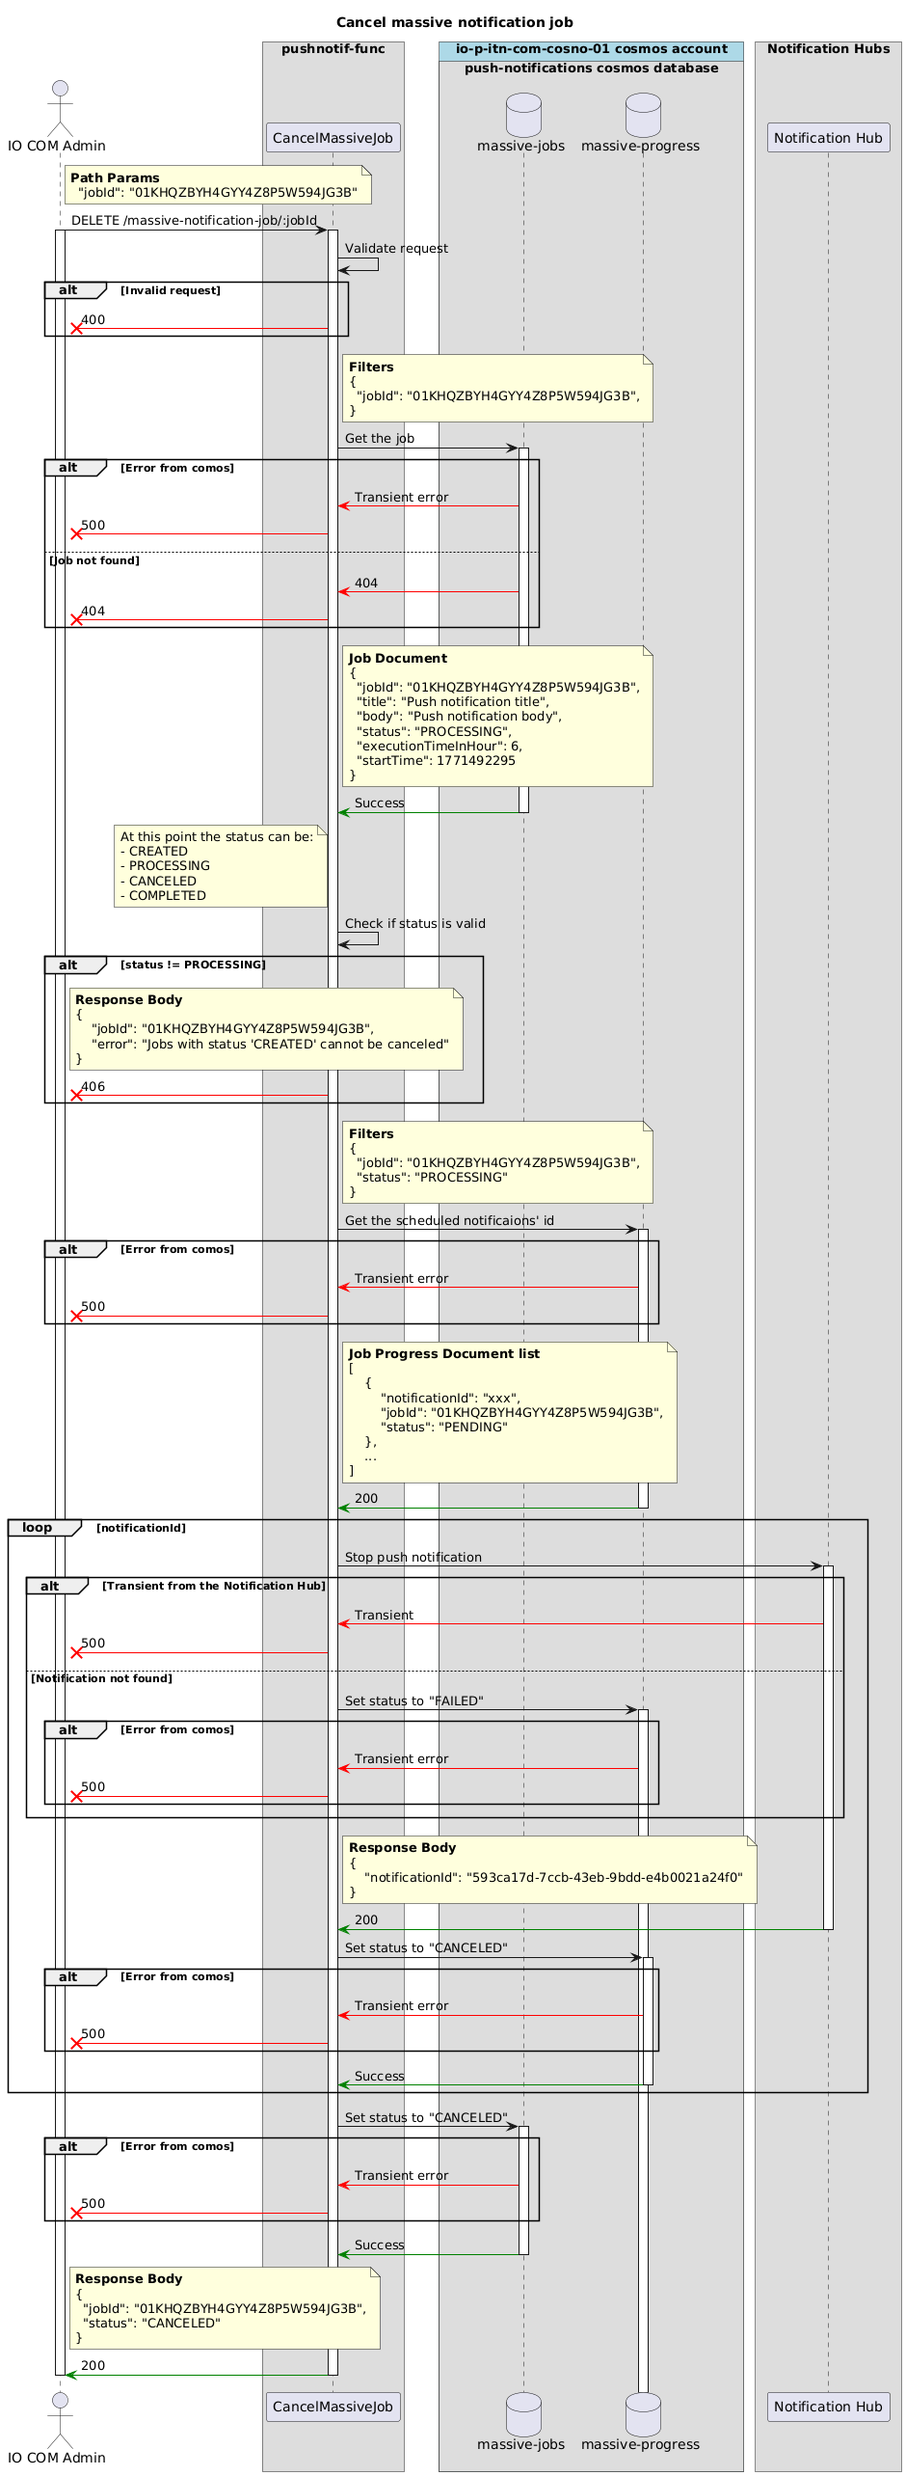
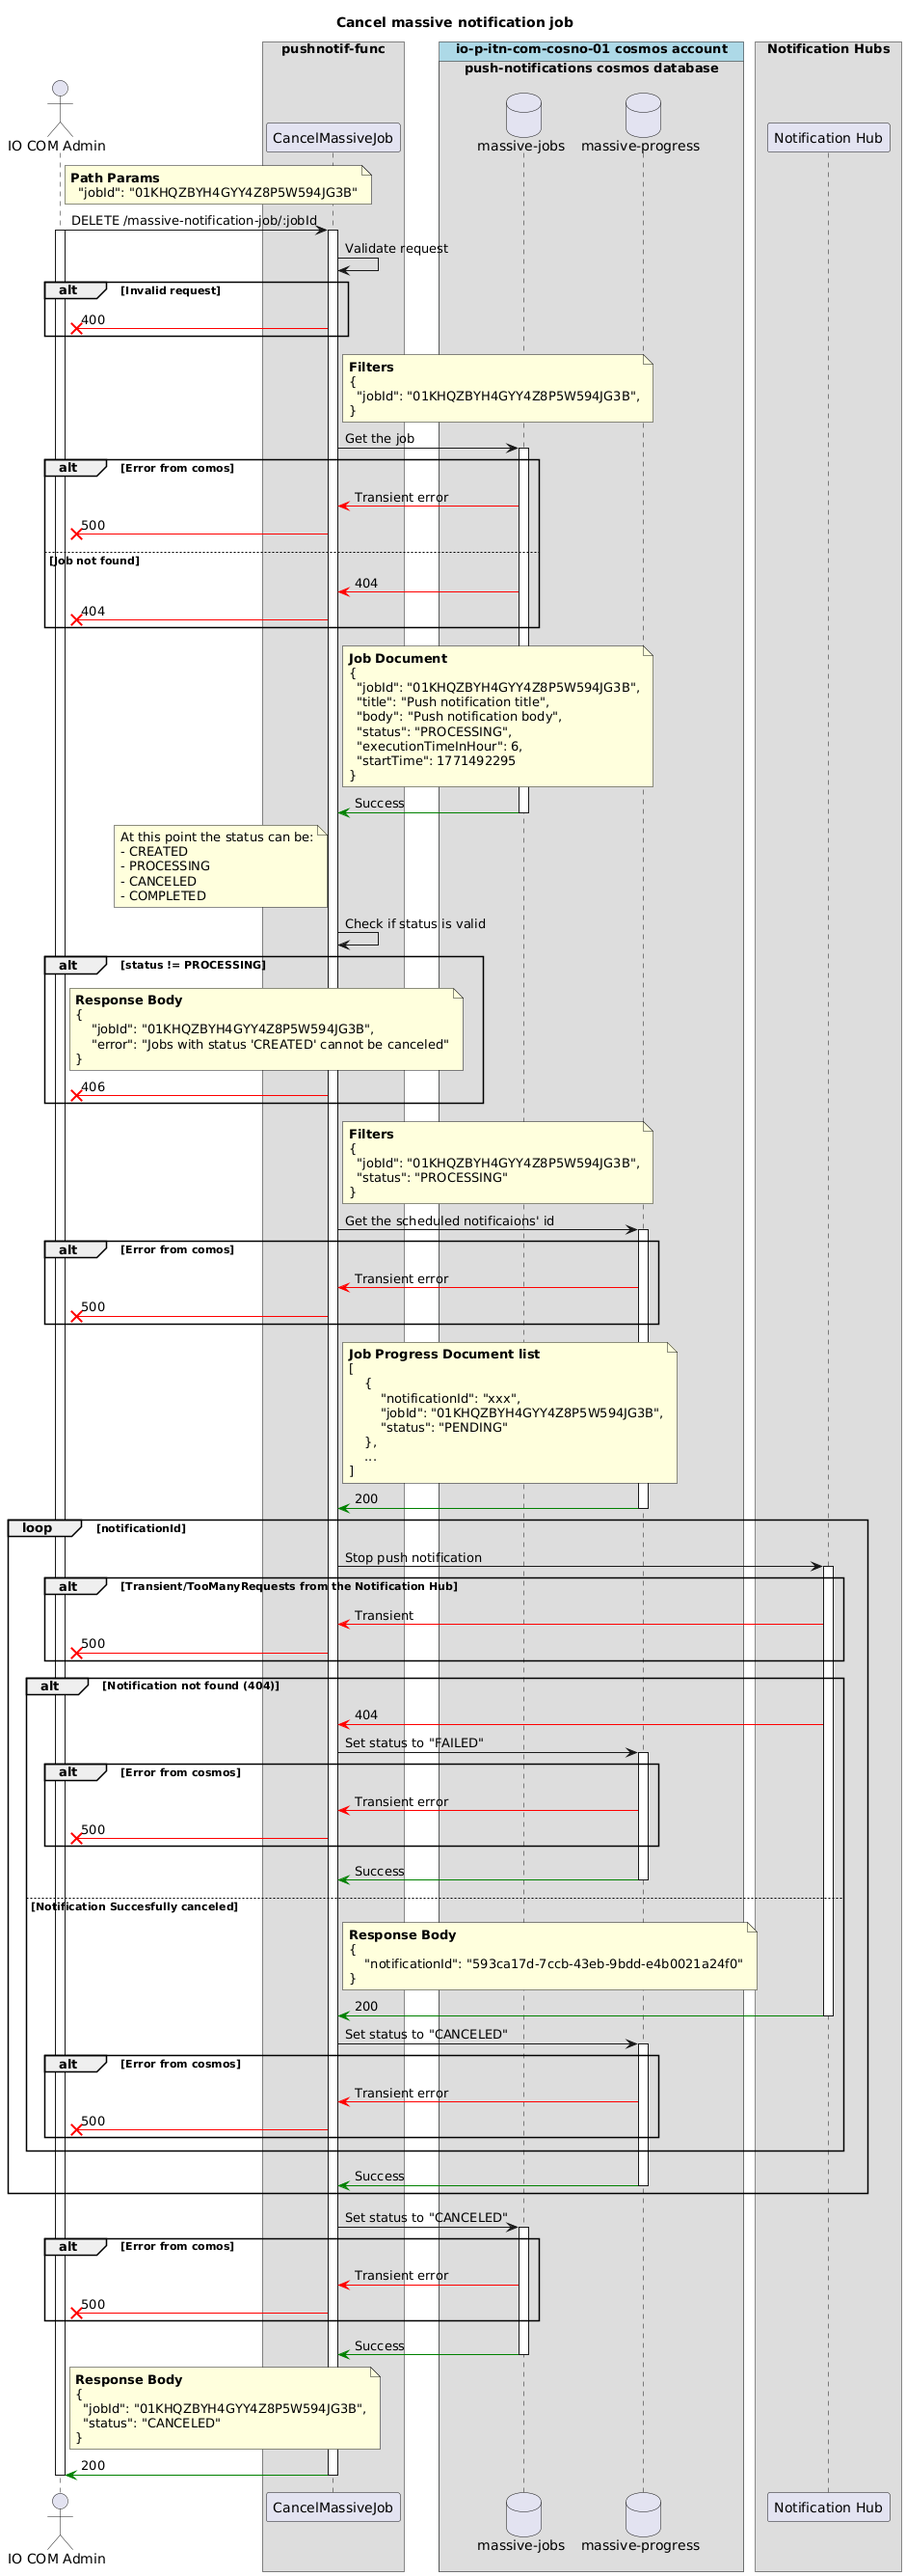
Update Error Handling in Usecase

diff --git a/apps/pushnotif-func/src/domain/use-cases/__tests__/cancel-massive-notification-job.test.ts b/apps/pushnotif-func/src/domain/use-cases/__tests__/cancel-massive-notification-job.test.ts
@@ -1,6 +1,7 @@
+/* eslint-disable max-lines-per-function */
 import { afterEach, describe, expect, test, vi } from "vitest";
 
-import { ErrorConflict, ErrorInternal, ErrorNotFound } from "../../error";
+import { ErrorInternal, ErrorNotAccepted, ErrorNotFound } from "../../error";
 import {
   MassiveJob,
   MassiveJobsRepository,
@@ -89,8 +90,8 @@ describe("CancelMassiveNotificationJobUseCase", () => {
     expect(result).toBe(internalError);
   });
 
-  test.each(["CREATED", "CANCELED", "COMPLETED", "FAILED"] as const)(
-    "should return ErrorConflict when job status is %s",
+  test.each(["CREATED", "CANCELED", "COMPLETED"] as const)(
+    "should return ErrorNotAccepted when job status is %s",
     async (status) => {
       vi.mocked(massiveJobsRepositoryMock.getMassiveJob).mockResolvedValueOnce({
         ...baseJob,
@@ -99,14 +100,14 @@ describe("CancelMassiveNotificationJobUseCase", () => {
 
       const result = await useCase.execute(jobId);
 
-      expect(result).toBeInstanceOf(ErrorConflict);
-      expect((result as ErrorConflict).message).toBe(
+      expect(result).toBeInstanceOf(ErrorNotAccepted);
+      expect((result as ErrorNotAccepted).message).toBe(
         `Jobs with status '${status}' cannot be canceled`,
       );
     },
   );
 
-  test("should stop job with no pending progress", async () => {
+  test("should cancel job with no pending progress", async () => {
     vi.mocked(massiveJobsRepositoryMock.getMassiveJob).mockResolvedValueOnce({
       ...baseJob,
       status: "PROCESSING",
@@ -130,7 +131,7 @@ describe("CancelMassiveNotificationJobUseCase", () => {
     ).not.toHaveBeenCalled();
   });
 
-  test("should cancel all pending notifications and stop job", async () => {
+  test("should cancel all pending notifications and cancel the job", async () => {
     vi.mocked(massiveJobsRepositoryMock.getMassiveJob).mockResolvedValueOnce({
       ...baseJob,
       status: "PROCESSING",
@@ -192,7 +193,47 @@ describe("CancelMassiveNotificationJobUseCase", () => {
     expect(result).toBe(internalError);
   });
 
-  test("should fail fast when cancelScheduledNotification fails", async () => {
+  test("should set progress to FAILED and continue when NH returns 404", async () => {
+    vi.mocked(massiveJobsRepositoryMock.getMassiveJob).mockResolvedValueOnce({
+      ...baseJob,
+      status: "PROCESSING",
+    });
+    vi.mocked(
+      massiveProgressRepositoryMock.listMassiveJobPendingProgress,
+    ).mockResolvedValueOnce(pendingProgress);
+    vi.mocked(pushNotificationRepositoryMock.cancelScheduledNotification)
+      .mockResolvedValueOnce(new ErrorNotFound("Notification not found"))
+      .mockResolvedValueOnce("notification-id");
+    vi.mocked(massiveProgressRepositoryMock.setStatus).mockResolvedValue(
+      "activity-id",
+    );
+    vi.mocked(massiveJobsRepositoryMock.setStatus).mockResolvedValueOnce(
+      "activity-id",
+    );
+
+    const result = await useCase.execute(jobId);
+
+    expect(result).toEqual({ jobId, status: "CANCELED" });
+    expect(
+      pushNotificationRepositoryMock.cancelScheduledNotification,
+    ).toHaveBeenCalledTimes(2);
+    expect(massiveProgressRepositoryMock.setStatus).toHaveBeenCalledWith(
+      pendingProgress[0].id,
+      jobId,
+      "FAILED",
+    );
+    expect(massiveProgressRepositoryMock.setStatus).toHaveBeenCalledWith(
+      pendingProgress[1].id,
+      jobId,
+      "CANCELED",
+    );
+    expect(massiveJobsRepositoryMock.setStatus).toHaveBeenCalledWith(
+      jobId,
+      "CANCELED",
+    );
+  });
+
+  test("should fail fast when cancelScheduledNotification returns ErrorInternal", async () => {
     vi.mocked(massiveJobsRepositoryMock.getMassiveJob).mockResolvedValueOnce({
       ...baseJob,
       status: "PROCESSING",

diff --git a/apps/pushnotif-func/src/domain/use-cases/cancel-massive-notification-job.ts b/apps/pushnotif-func/src/domain/use-cases/cancel-massive-notification-job.ts
@@ -1,4 +1,9 @@
-import { ErrorConflict, ErrorInternal, ErrorNotFound } from "../error";
+import {
+  ErrorInternal,
+  ErrorNotAccepted,
+  ErrorNotFound,
+  ErrorTooManyRequests,
+} from "../error";
 import {
   CancelMassiveJobResult,
   MassiveJobID,
@@ -19,7 +24,7 @@ export class CancelMassiveNotificationJobUseCase {
   async execute(
     jobId: MassiveJobID,
   ): Promise<
-    CancelMassiveJobResult | ErrorConflict | ErrorInternal | ErrorNotFound
+    CancelMassiveJobResult | ErrorInternal | ErrorNotAccepted | ErrorNotFound
   > {
     const massiveJob = await this.massiveJobRepository.getMassiveJob(jobId);
 
@@ -28,7 +33,7 @@ export class CancelMassiveNotificationJobUseCase {
     }
 
     if (massiveJob.status !== MassiveJobStatusEnum.enum.PROCESSING) {
-      return new ErrorConflict(
+      return new ErrorNotAccepted(
         `Jobs with status '${massiveJob.status}' cannot be canceled`,
       );
     }
@@ -47,14 +52,19 @@ export class CancelMassiveNotificationJobUseCase {
           progress.tags[0],
         );
 
-      if (cancelResult instanceof Error) {
+      if (
+        cancelResult instanceof ErrorInternal ||
+        cancelResult instanceof ErrorTooManyRequests
+      ) {
         return cancelResult;
       }
 
       const setStatusResult = await this.massiveProgressRepository.setStatus(
         progress.id,
         jobId,
-        MassiveProgressStatusEnum.enum.CANCELED,
+        cancelResult instanceof ErrorNotFound
+          ? MassiveProgressStatusEnum.enum.FAILED
+          : MassiveProgressStatusEnum.enum.CANCELED,
       );
 
       if (setStatusResult instanceof Error) {
